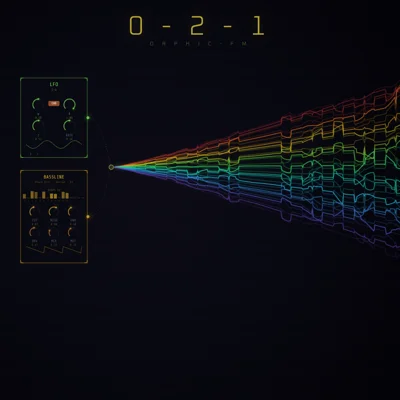
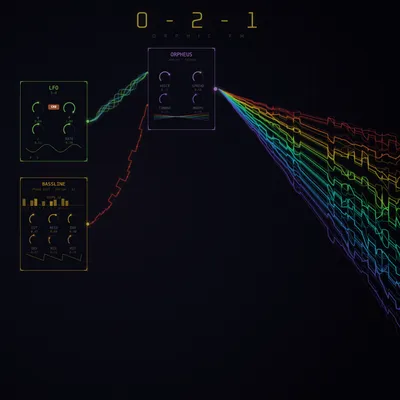
Here is a concise commit message summarizing the changes:
Add "Insight" track to "0-2-1" album with technical metadata, swap featured track status from "WYSIWYG", update poster webp assets, and refine hero image object-fit and gradient scrim styling in devlog and album collection layouts

diff --git a/_layouts/devlog.html b/_layouts/devlog.html
@@ -188,8 +188,9 @@ document.addEventListener('DOMContentLoaded', function() {
   .devlog-album-hero-bg img {
     width: 100%;
     height: 100%;
-    object-fit: cover;
-    object-position: center 30%;
+    object-fit: contain;
+    object-position: center center;
+    filter: brightness(0.6) saturate(1.3);
   }
   .devlog-album-hero-scrim {
     position: absolute;
@@ -197,10 +198,10 @@ document.addEventListener('DOMContentLoaded', function() {
     z-index: 1;
     background: linear-gradient(
       to top,
-      rgba(13, 13, 13, 0.95) 0%,
-      rgba(13, 13, 13, 0.8) 35%,
-      rgba(13, 13, 13, 0.4) 65%,
-      rgba(13, 13, 13, 0.2) 100%
+      rgba(13, 13, 13, 0.92) 0%,
+      rgba(13, 13, 13, 0.6) 40%,
+      rgba(13, 13, 13, 0.25) 70%,
+      rgba(13, 13, 13, 0.1) 100%
     );
   }
   .devlog-album-date {

diff --git a/_layouts/album-collection.html b/_layouts/album-collection.html
@@ -291,8 +291,8 @@ layout: default
   .album-hero-bg img {
     width: 100%;
     height: 100%;
-    object-fit: cover;
-    object-position: center 30%;
+    object-fit: contain;
+    object-position: center center;
     filter: brightness(0.5) saturate(1.2);
   }
   .album-hero-scrim {

diff --git a/_albums/0-2-1/Insight.md b/_albums/0-2-1/Insight.md
@@ -1,0 +1,17 @@
+---
+layout: album
+title: "Insight"
+description: "Sliding into the groove. Portamento and legato bring the bass to life with smooth pitch transitions and sustained expression."
+date: 2026-03-21
+album: "0-2-1"
+track: 2
+length: "4:48"
+featuredSong: true
+video_url: "https://orphic-fm-video.orphic-fm.workers.dev/0-2-1-assets/Insight.mp4"
+poster_url: "/assets/albums/2026-03-20-0-2-1/poster.webp"
+tags: ["human", "bass", "portamento", "bugs"]
+tech_blurb: "The bass unit gains portamento and legato — a three-tier gate system lets steps rest, slide, or trigger, while pitch smoothing and sustained envelopes keep the signal flowing through transitions."
+tech_content: |
+  Insight showcases the new portamento and legato behavior in the bass unit. A **three-tier gate system** now classifies each step: rest (≤0.3), slide (0.3–0.7), or normal trigger (>0.7). During slide steps, **pitch smoothing** (portamento) glides between notes with the glide time controlled by the envelope parameter. The **envelope generator** was updated to hold a sustain floor while the gate stays open, enabling smooth legato transitions without retriggering. The trigger logic skips retriggering entirely on slide steps, allowing the signal to flow continuously — the bass line breathes instead of stuttering between notes.
+tech_url: "https://github.com/balch/orphic-fm-app/commit/b4c4c734"
+---

diff --git a/_albums/0-2-1/WYSIWYG.md b/_albums/0-2-1/WYSIWYG.md
@@ -5,7 +5,7 @@ description: "Seeing is believing. A Bassline funk combined with a PolyLFO orche
 date: 2026-03-20
 album: "0-2-1"
 track: 1
-featuredSong: true
+featuredSong: false
 video_url: "https://orphic-fm-video.orphic-fm.workers.dev/0-2-1-assets/WYSIWYG.mp4"
 poster_url: "/assets/albums/2026-03-20-0-2-1/poster.webp"
 length: "2:20"
